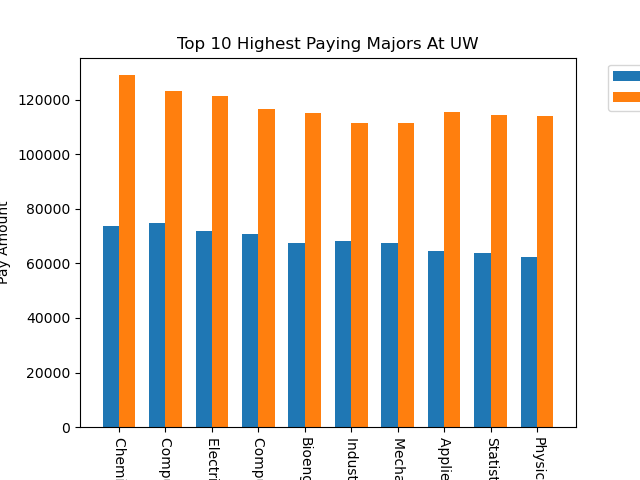
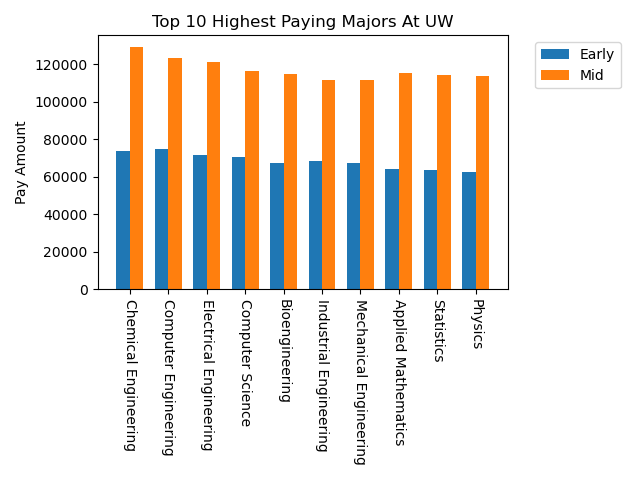
fix Highest_Paying plots, all

diff --git a/analysis.py b/analysis.py
@@ -173,6 +173,7 @@ def top_10(data):
     ax.set_xticklabels(top_10_labels)
     plt.legend(bbox_to_anchor=(1.05, 1.0), loc='upper left')
     plt.xticks(rotation=-90)
+    plt.tight_layout()
     plt.savefig('Highest_Paying_Majors')
 
 
@@ -191,7 +192,7 @@ def bottom_10(data):
     bottom_10_labels = bottom_10['Major'].tolist()
     x = np.arange(len(bottom_10_labels))
     width = 0.35
-    fig, ax = plt.subplots()
+    fig, ax = plt.subplots(figsize=(15, 20))
     ax.bar(x - width/2, bottom_10_e, width, label='Early')
     ax.bar(x + width/2, bottom_10_m, width, label='Mid')
     ax.set_ylabel('Pay Amount')
@@ -200,6 +201,7 @@ def bottom_10(data):
     ax.set_xticklabels(bottom_10_labels)
     ax.legend()
     plt.xticks(rotation=-90)
+    plt.tight_layout()
     plt.savefig('Lowest_Paying_Majors')
 
 # Question 2
@@ -243,13 +245,14 @@ def bach_10(data):
     bach_10_labels = highest_paying_bach['occupation_name'].tolist()
     x = np.arange(len(bach_10_labels))
     width = 0.35
-    fig, ax = plt.subplots()
+    fig, ax = plt.subplots(figsize=(30, 30))
     ax.bar(x, bach_10, width)
     ax.set_ylabel('Mean Annual Salary')
     ax.set_title('Highest Paying Bachelor\'s Degree Occupations')
     ax.set_xticks(x)
     ax.set_xticklabels(bach_10_labels)
     plt.xticks(rotation=-90)
+    plt.tight_layout()
     plt.savefig('Highest_Paying_Bach')
 
 
@@ -271,13 +274,14 @@ def master_10(data):
     master_10_labels = highest_paying_master['occupation_name'].tolist()
     x = np.arange(len(master_10_labels))
     width = 0.35
-    fig, ax = plt.subplots()
+    fig, ax = plt.subplots(figsize=(15, 20))
     ax.bar(x, master_10, width)
     ax.set_ylabel('Mean Annual Salary')
     ax.set_title('Highest Paying Master\'s Degree Occupations')
     ax.set_xticks(x)
     ax.set_xticklabels(master_10_labels)
     plt.xticks(rotation=-90)
+    plt.tight_layout()
     plt.savefig('Highest_Paying_Master')
 
 
@@ -298,6 +302,12 @@ def doct_10(data):
     highest_paying_doct = highest_paying_doct.head(10)
     doct_10 = highest_paying_doct['2019 Median Pay'].tolist()
     doct_10_labels = highest_paying_doct['occupation_name'].tolist()
+    labels = ['Pediatrician', 'Physcian',
+              'Family Medicine\n Physician',
+              'Psychiatrists', 'Obstetricians\n and gynecologist',
+              'Surgeons\n except ophthalmologist',
+              'Anesthesiologists', 'General internal\n medicine physician',
+              'Dentists', 'Oral and maxillofacial surgeons']
     x = np.arange(len(doct_10_labels))
     width = 0.35
     fig, ax = plt.subplots()
@@ -305,8 +315,9 @@ def doct_10(data):
     ax.set_ylabel('Mean Annual Salary')
     ax.set_title('Highest Paying Doctorate or Professional Degree Occupations')
     ax.set_xticks(x)
-    ax.set_xticklabels(doct_10_labels)
+    ax.set_xticklabels(labels)
     plt.xticks(rotation=-90)
+    plt.tight_layout()
     plt.savefig('Highest_Paying_Doct')
 
 
